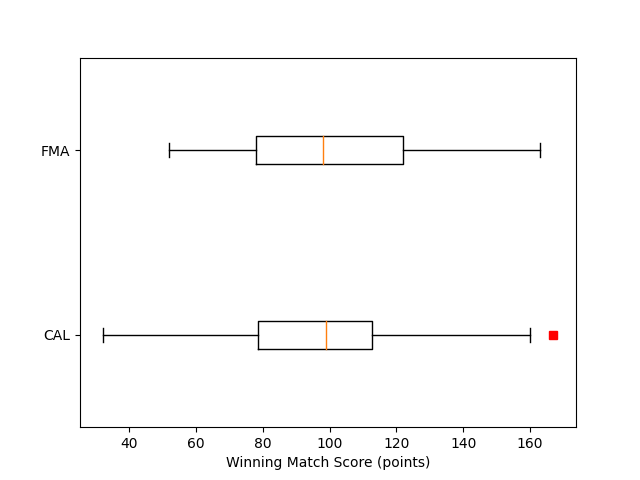
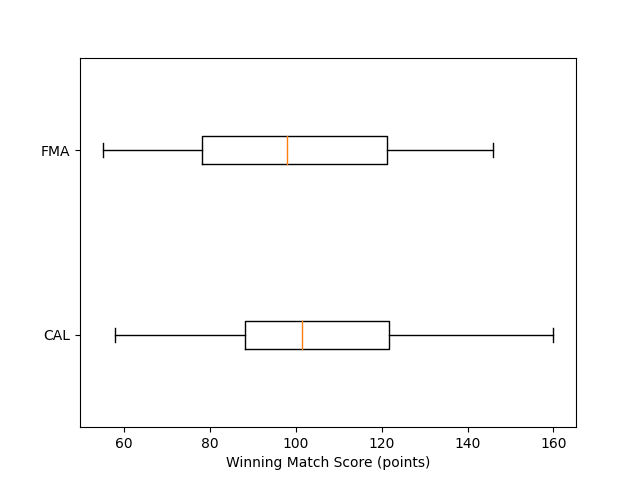
Got good data.

diff --git a/main.py b/main.py
@@ -54,7 +54,7 @@ if not pathlib.Path(data_csv).exists():
 
     california_samples = []
 
-    n = 150
+    n = 34
 
     while len(california_samples) < n:
         chosen_match = random.choice(all_matches_cal)
